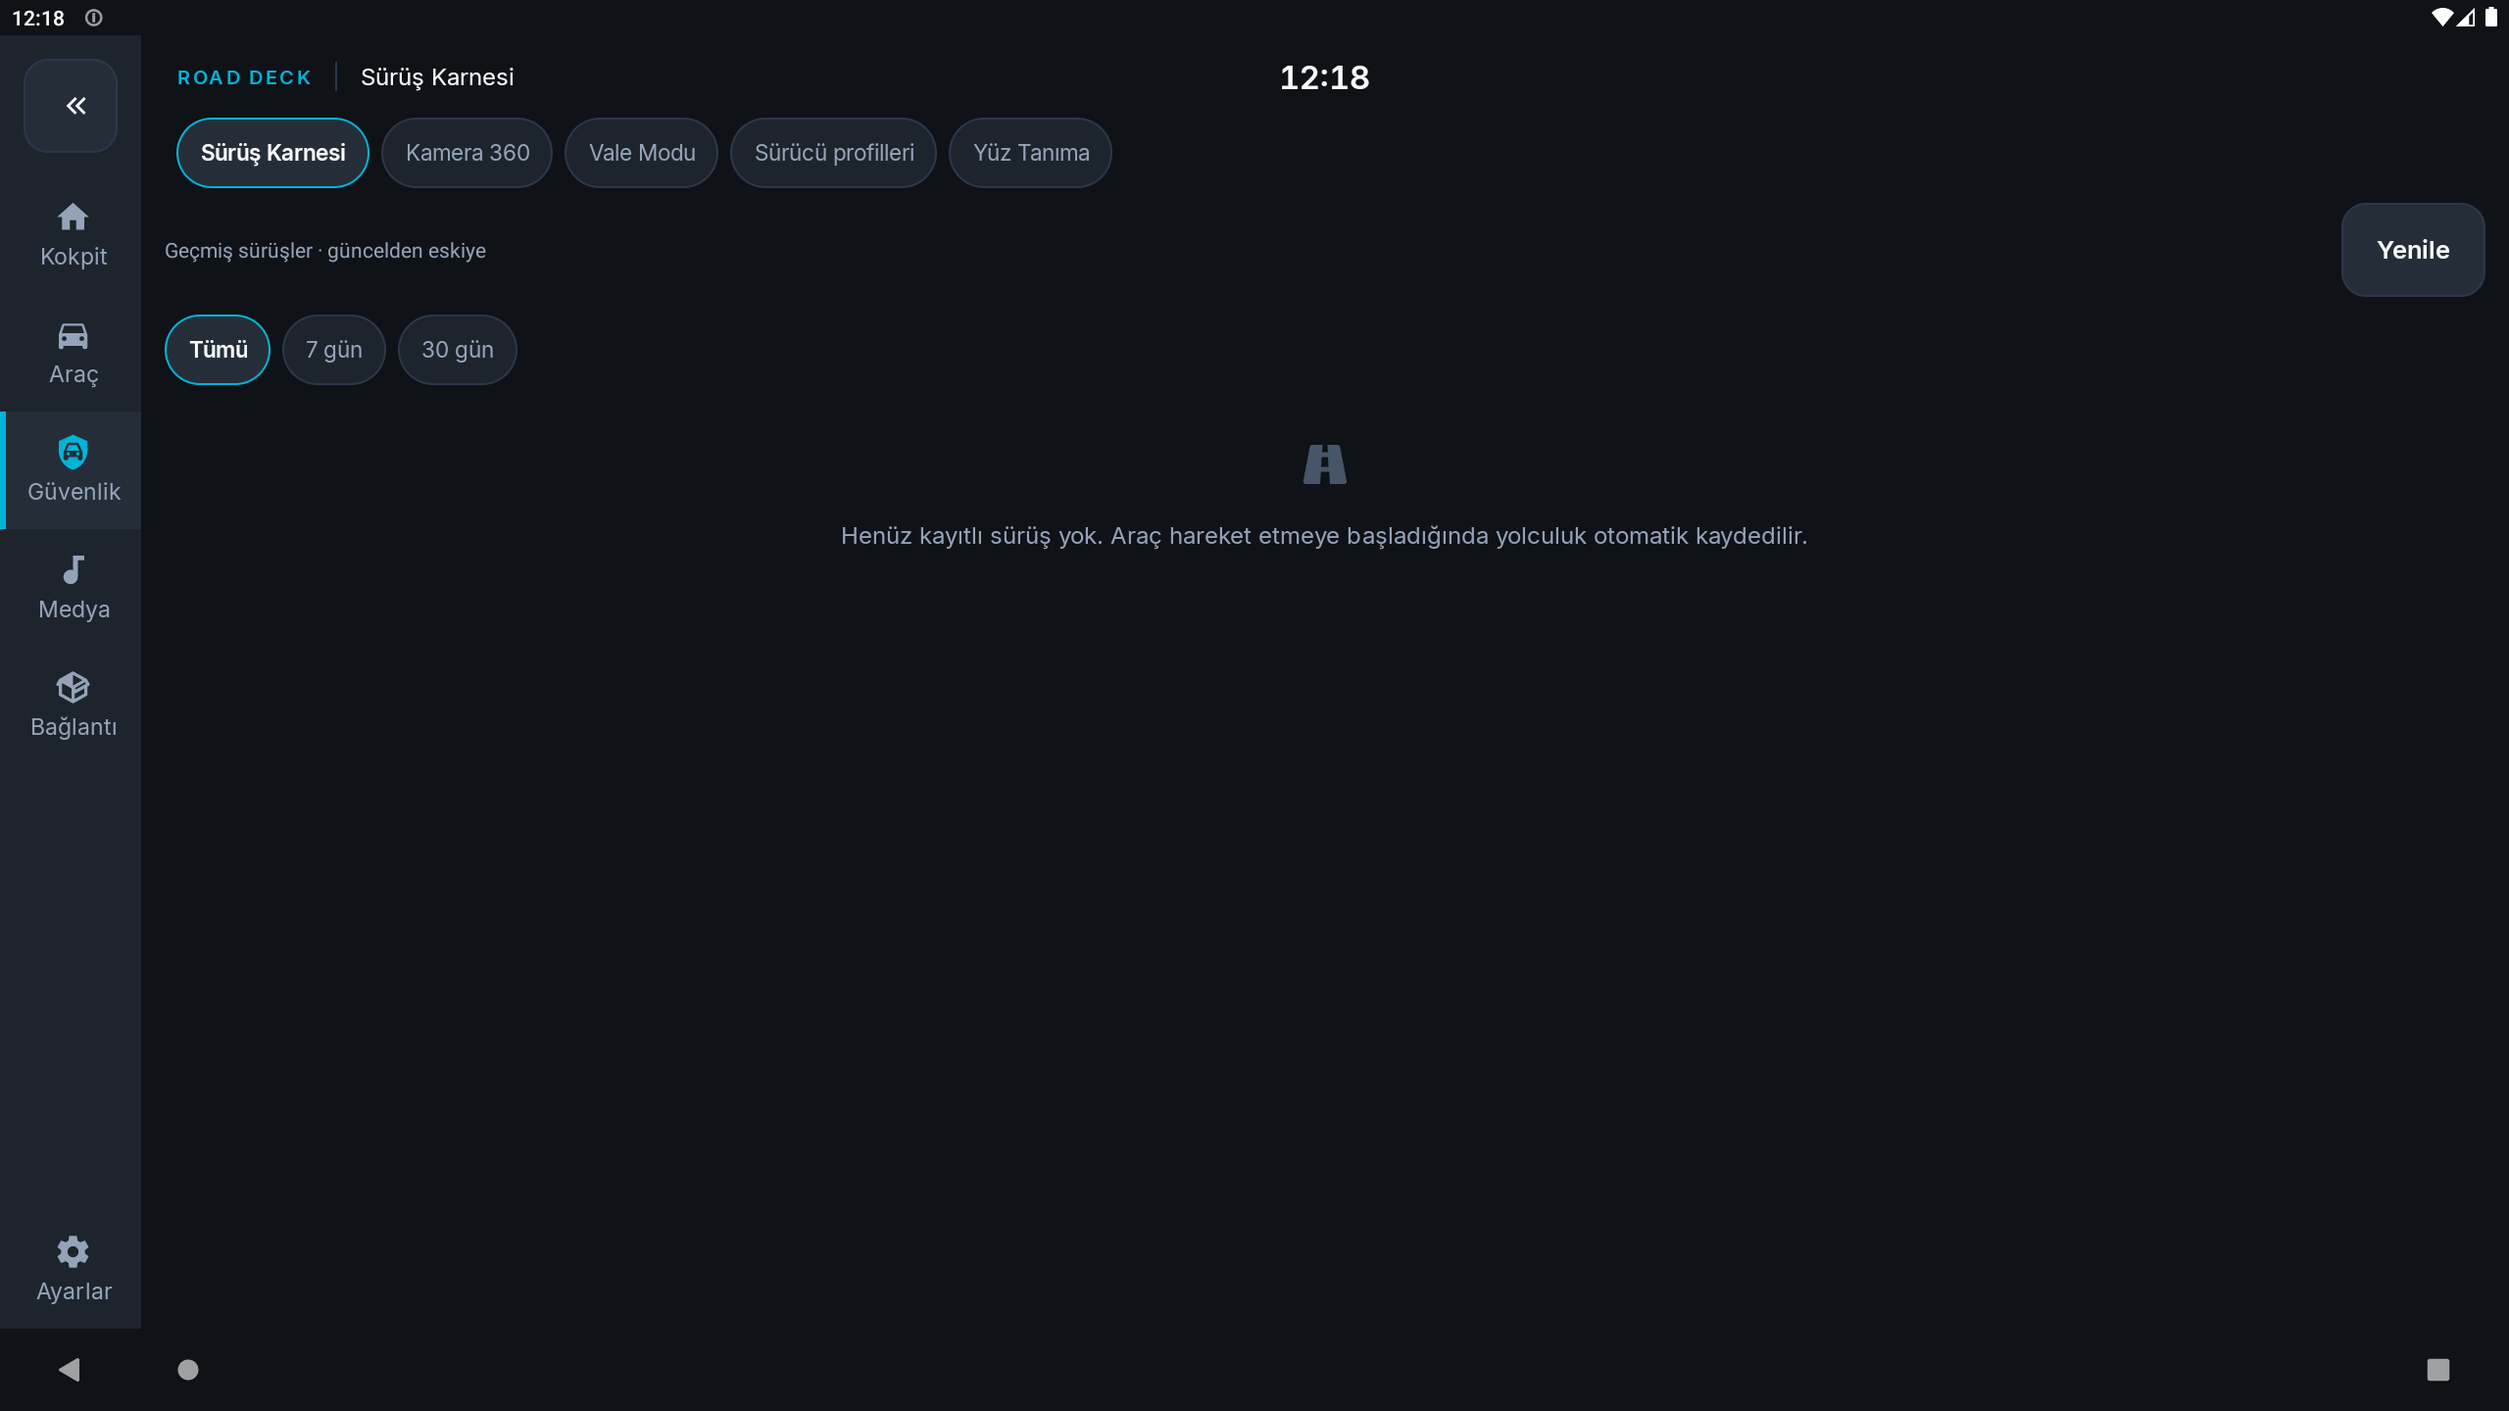
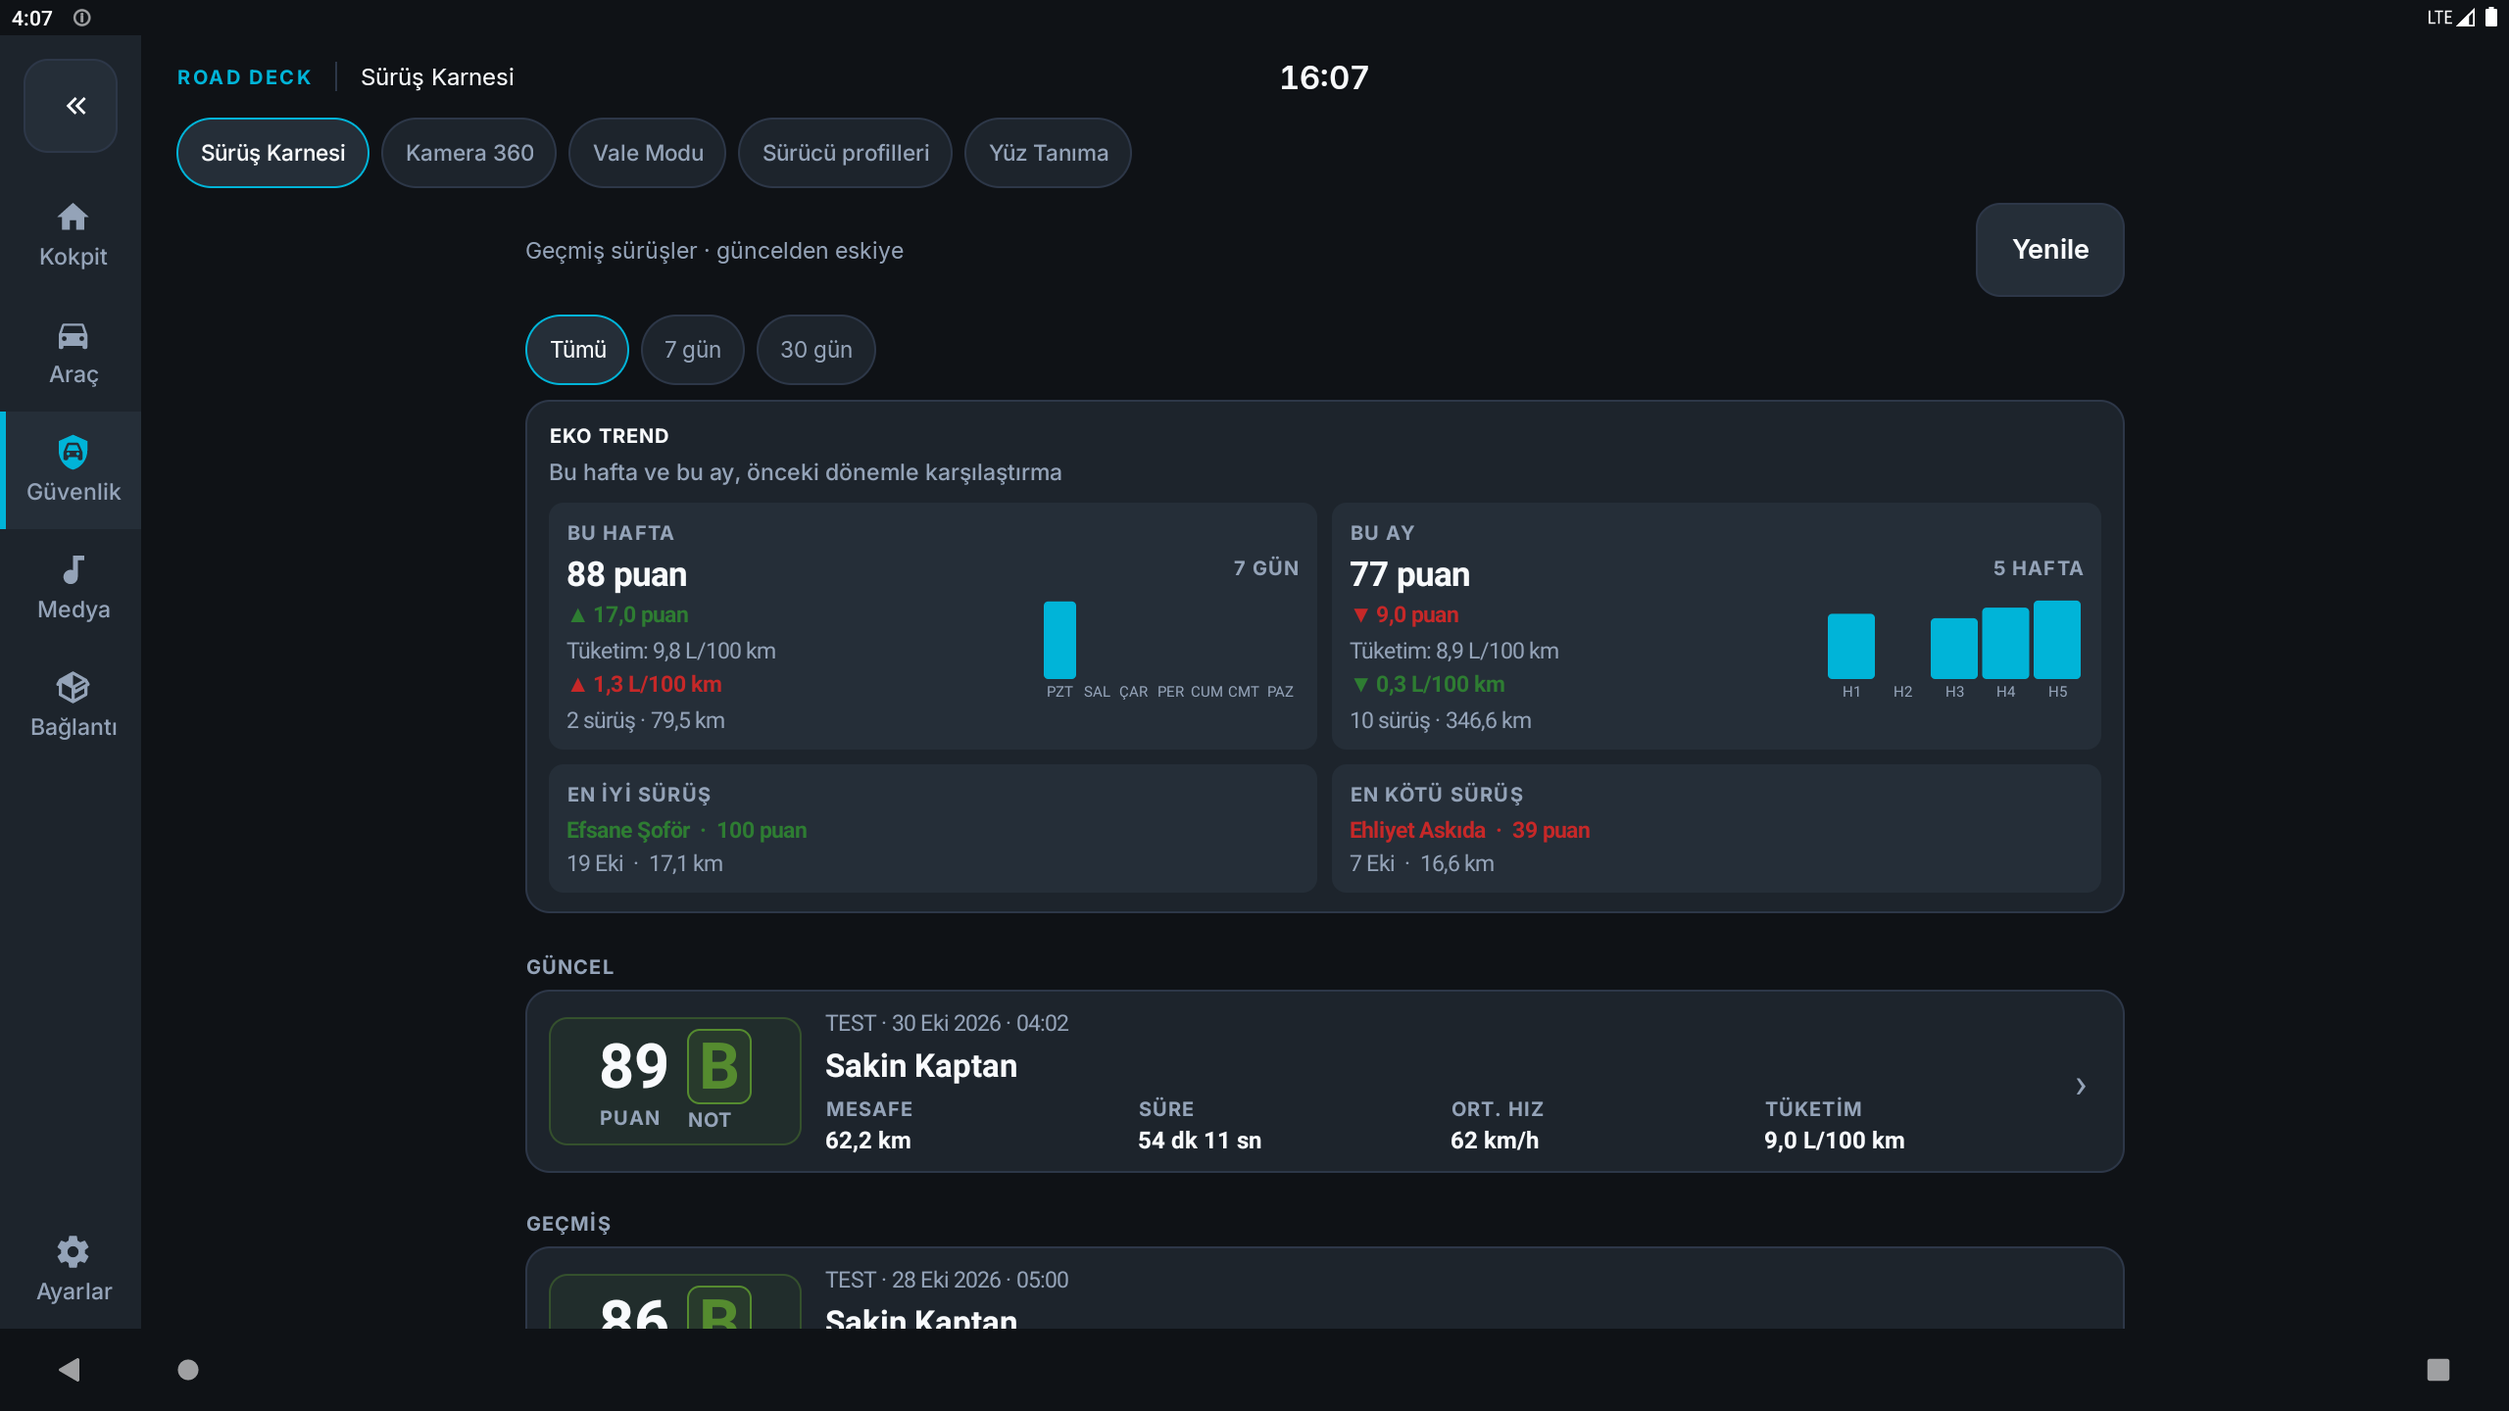
feat: Surus Karnesi tipografi ve kart kompozisyonu
- Trend/ekstrem metrikleri label-caps + bodySm rollerine tasindi
- Bos durum CockpitCard icine alindi
- Baslik/tarih/metrik hiyerarsisi DESIGN.md tipografiye hizalandi
- Ekran goruntusu guncellendi

diff --git a/app/src/main/java/com/mapcontrol/ui/builder/DrivingHistoryTabBuilder.java b/app/src/main/java/com/mapcontrol/ui/builder/DrivingHistoryTabBuilder.java
@@ -22,6 +22,7 @@ import com.mapcontrol.driving.DrivingTrendBarsView;
 import com.mapcontrol.driving.DrivingTrends;
 import com.mapcontrol.ui.activity.DrivingAnalysisActivity;
 import com.mapcontrol.ui.cockpit.CockpitButton;
+import com.mapcontrol.ui.cockpit.CockpitCard;
 import com.mapcontrol.ui.cockpit.CockpitChip;
 import com.mapcontrol.ui.cockpit.CockpitEmptyState;
 import com.mapcontrol.ui.cockpit.CockpitSurfaces;
@@ -129,11 +130,14 @@ public class DrivingHistoryTabBuilder {
             String message = filterDays > 0
                     ? "Seçilen dönemde kayıtlı sürüş yok."
                     : context.getString(R.string.driving_history_empty);
-            CockpitEmptyState empty = new CockpitEmptyState(context,
-                    R.drawable.ic_mdi_road_variant, message);
-            listContainer.addView(empty, new LinearLayout.LayoutParams(
+            CockpitCard emptyCard = new CockpitCard(context);
+            emptyCard.addContent(new CockpitEmptyState(context,
+                    R.drawable.ic_mdi_road_variant, message));
+            LinearLayout.LayoutParams emptyLp = new LinearLayout.LayoutParams(
                     LinearLayout.LayoutParams.MATCH_PARENT,
-                    LinearLayout.LayoutParams.WRAP_CONTENT));
+                    LinearLayout.LayoutParams.WRAP_CONTENT);
+            emptyLp.bottomMargin = dp(12);
+            listContainer.addView(emptyCard, emptyLp);
         }
     }
 
@@ -190,12 +194,15 @@ public class DrivingHistoryTabBuilder {
         cardLp.bottomMargin = dp(12);
         card.setLayoutParams(cardLp);
 
-        TextView title = text("EKO TREND", 13,
-                UiStyles.color(context, R.color.textPrimary), true);
-        title.setLetterSpacing(0.12f);
+        TextView title = new TextView(context);
+        title.setText("EKO TREND");
+        CockpitTokens.labelCaps(title);
+        title.setTextColor(CockpitTokens.color(context, R.color.ck_text_high));
         card.addView(title);
-        TextView subtitle = text("Bu hafta ve bu ay, önceki dönemle karşılaştırma", 12,
-                UiStyles.color(context, R.color.textHint), false);
+        TextView subtitle = new TextView(context);
+        subtitle.setText("Bu hafta ve bu ay, önceki dönemle karşılaştırma");
+        CockpitTokens.bodySm(subtitle);
+        subtitle.setTextColor(CockpitTokens.color(context, R.color.ck_text_medium));
         LinearLayout.LayoutParams subtitleLp = new LinearLayout.LayoutParams(
                 LinearLayout.LayoutParams.WRAP_CONTENT,
                 LinearLayout.LayoutParams.WRAP_CONTENT);
@@ -257,22 +264,23 @@ public class DrivingHistoryTabBuilder {
         background.setCornerRadius(dp(10));
         card.setBackground(background);
 
-        TextView eyebrow = text(label, 10,
-                UiStyles.color(context, R.color.textHint), true);
-        eyebrow.setLetterSpacing(0.12f);
+        TextView eyebrow = new TextView(context);
+        eyebrow.setText(label);
+        CockpitTokens.labelCaps(eyebrow);
+        eyebrow.setTextColor(CockpitTokens.color(context, R.color.ck_text_medium));
         card.addView(eyebrow);
 
         if (trip != null) {
             TextView value = text(trip.title + "  ·  " + trip.score + " puan",
-                    13, gradeColor(trip.grade), true);
+                    15, gradeColor(trip.grade), true);
             LinearLayout.LayoutParams valueLp = new LinearLayout.LayoutParams(
                     LinearLayout.LayoutParams.WRAP_CONTENT,
                     LinearLayout.LayoutParams.WRAP_CONTENT);
             valueLp.topMargin = dp(4);
             card.addView(value, valueLp);
 
-            TextView meta = text(bestMeta(trip), 11,
-                    UiStyles.color(context, R.color.textHint), false);
+            TextView meta = text(bestMeta(trip), 15,
+                    CockpitTokens.color(context, R.color.ck_text_medium), false);
             LinearLayout.LayoutParams metaLp = new LinearLayout.LayoutParams(
                     LinearLayout.LayoutParams.WRAP_CONTENT,
                     LinearLayout.LayoutParams.WRAP_CONTENT);
@@ -301,9 +309,10 @@ public class DrivingHistoryTabBuilder {
         LinearLayout textColumn = new LinearLayout(context);
         textColumn.setOrientation(LinearLayout.VERTICAL);
 
-        TextView periodLabel = text(label, 10,
-                UiStyles.color(context, R.color.textHint), true);
-        periodLabel.setLetterSpacing(0.12f);
+        TextView periodLabel = new TextView(context);
+        periodLabel.setText(label);
+        CockpitTokens.labelCaps(periodLabel);
+        periodLabel.setTextColor(CockpitTokens.color(context, R.color.ck_text_medium));
         textColumn.addView(periodLabel);
         TextView score = text(current.hasData() ? current.avgScore + " puan" : "—",
                 23, UiStyles.color(context, R.color.textPrimary), true);
@@ -317,8 +326,8 @@ public class DrivingHistoryTabBuilder {
 
         String consumptionText = current.hasConsumption
                 ? String.format(appLocale(), "%.1f L/100 km", current.avgConsumptionL100) : "—";
-        TextView consumption = text("Tüketim: " + consumptionText, 12,
-                UiStyles.color(context, R.color.textSecondary), false);
+        TextView consumption = text("Tüketim: " + consumptionText, 15,
+                CockpitTokens.color(context, R.color.ck_text_medium), false);
         LinearLayout.LayoutParams consumptionLp = new LinearLayout.LayoutParams(
                 LinearLayout.LayoutParams.WRAP_CONTENT,
                 LinearLayout.LayoutParams.WRAP_CONTENT);
@@ -331,7 +340,7 @@ public class DrivingHistoryTabBuilder {
 
         TextView meta = text(current.tripCount + " sürüş · "
                         + String.format(appLocale(), "%.1f km", current.distanceKm),
-                11, UiStyles.color(context, R.color.textHint), false);
+                15, CockpitTokens.color(context, R.color.ck_text_medium), false);
         LinearLayout.LayoutParams metaLp = new LinearLayout.LayoutParams(
                 LinearLayout.LayoutParams.WRAP_CONTENT,
                 LinearLayout.LayoutParams.WRAP_CONTENT);
@@ -343,9 +352,10 @@ public class DrivingHistoryTabBuilder {
         LinearLayout chartColumn = new LinearLayout(context);
         chartColumn.setOrientation(LinearLayout.VERTICAL);
         chartColumn.setGravity(Gravity.END);
-        TextView chartLabel = text(week ? "7 GÜN" : "5 HAFTA", 10,
-                UiStyles.color(context, R.color.textHint), true);
-        chartLabel.setLetterSpacing(0.12f);
+        TextView chartLabel = new TextView(context);
+        chartLabel.setText(week ? "7 GÜN" : "5 HAFTA");
+        CockpitTokens.labelCaps(chartLabel);
+        chartLabel.setTextColor(CockpitTokens.color(context, R.color.ck_text_medium));
         chartLabel.setGravity(Gravity.END);
         chartColumn.addView(chartLabel);
         DrivingTrendBarsView bars = new DrivingTrendBarsView(context);
@@ -379,8 +389,8 @@ public class DrivingHistoryTabBuilder {
     private TextView deltaView(double current, double previous, boolean hasComparison,
             boolean lowerIsBetter, String unit) {
         if (!hasComparison) {
-            TextView neutral = text("Önceki dönem verisi yok", 11,
-                    UiStyles.color(context, R.color.textHint), false);
+            TextView neutral = text("Önceki dönem verisi yok", 15,
+                    CockpitTokens.color(context, R.color.ck_text_medium), false);
             neutral.setPadding(0, dp(2), 0, 0);
             return neutral;
         }
@@ -391,7 +401,7 @@ public class DrivingHistoryTabBuilder {
                 : (better ? 0xFF2E7D32 : 0xFFC62828);
         String arrow = Math.abs(delta) < 0.05 ? "±" : (delta > 0 ? "▲" : "▼");
         TextView view = text(String.format(appLocale(), "%s %.1f %s", arrow,
-                Math.abs(delta), unit), 11, color, true);
+                Math.abs(delta), unit), 15, color, true);
         view.setPadding(0, dp(2), 0, 0);
         return view;
     }
@@ -420,8 +430,10 @@ public class DrivingHistoryTabBuilder {
         header.setOrientation(LinearLayout.HORIZONTAL);
         header.setGravity(Gravity.CENTER_VERTICAL);
 
-        TextView subtitle = text(R.string.driving_history_subtitle, 14,
-                UiStyles.color(context, R.color.textSecondary), false);
+        TextView subtitle = new TextView(context);
+        subtitle.setText(R.string.driving_history_subtitle);
+        CockpitTokens.bodySm(subtitle);
+        subtitle.setTextColor(CockpitTokens.color(context, R.color.ck_text_medium));
         subtitle.setPadding(0, 0, dp(12), 0);
         header.addView(subtitle, new LinearLayout.LayoutParams(
                 0, LinearLayout.LayoutParams.WRAP_CONTENT, 1f));
@@ -498,7 +510,7 @@ public class DrivingHistoryTabBuilder {
         if (trip.testData) {
             date = "TEST · " + date;
         }
-        return text(date, 13, UiStyles.color(context, R.color.textHint), false);
+        return text(date, 15, CockpitTokens.color(context, R.color.ck_text_medium), false);
     }
 
     private LinearLayout titleLine(DrivingTrip trip, boolean withArrow) {
@@ -507,7 +519,7 @@ public class DrivingHistoryTabBuilder {
         row.setGravity(Gravity.CENTER_VERTICAL);
         TextView title = text(trip.title != null && !trip.title.isEmpty()
                 ? trip.title : context.getString(R.string.side_rail_driving_report),
-                22, UiStyles.color(context, R.color.textPrimary), true);
+                22, CockpitTokens.color(context, R.color.ck_text_high), true);
         title.setPadding(0, dp(3), 0, 0);
         row.addView(title, new LinearLayout.LayoutParams(
                 0, LinearLayout.LayoutParams.WRAP_CONTENT, 1f));
@@ -544,12 +556,13 @@ public class DrivingHistoryTabBuilder {
                 int index = start + i;
                 LinearLayout cell = new LinearLayout(context);
                 cell.setOrientation(LinearLayout.VERTICAL);
-                TextView label = text(labels[index], 9,
-                        UiStyles.color(context, R.color.textHint), true);
-                label.setLetterSpacing(0.1f);
+                TextView label = new TextView(context);
+                label.setText(labels[index]);
+                CockpitTokens.labelCaps(label);
+                label.setTextColor(CockpitTokens.color(context, R.color.ck_text_medium));
                 cell.addView(label);
                 TextView value = text(values[index], 16,
-                        UiStyles.color(context, R.color.textPrimary), true);
+                        CockpitTokens.color(context, R.color.ck_text_high), true);
                 value.setMaxLines(1);
                 cell.addView(value);
                 LinearLayout.LayoutParams cellLp = new LinearLayout.LayoutParams(
@@ -589,9 +602,10 @@ public class DrivingHistoryTabBuilder {
                     wide ? 18 : 16, color, true);
             liveValue.setLetterSpacing(0.08f);
             group.addView(liveValue);
-            TextView liveLabel = text(R.string.driving_history_live_now,
-                    9, UiStyles.color(context, R.color.textHint), true);
-            liveLabel.setLetterSpacing(0.12f);
+            TextView liveLabel = new TextView(context);
+            liveLabel.setText(R.string.driving_history_live_now);
+            CockpitTokens.labelCaps(liveLabel);
+            liveLabel.setTextColor(CockpitTokens.color(context, R.color.ck_text_medium));
             group.addView(liveLabel);
             panel.addView(group);
             return panel;
@@ -604,9 +618,10 @@ public class DrivingHistoryTabBuilder {
                 UiStyles.color(context, R.color.textPrimary), true);
         pointsValue.setIncludeFontPadding(false);
         points.addView(pointsValue);
-        TextView pointsLabel = text(R.string.driving_history_points_label, 9,
-                UiStyles.color(context, R.color.textHint), true);
-        pointsLabel.setLetterSpacing(0.12f);
+        TextView pointsLabel = new TextView(context);
+        pointsLabel.setText(R.string.driving_history_points_label);
+        CockpitTokens.labelCaps(pointsLabel);
+        pointsLabel.setTextColor(CockpitTokens.color(context, R.color.ck_text_medium));
         points.addView(pointsLabel);
         panel.addView(points);
 
@@ -631,9 +646,10 @@ public class DrivingHistoryTabBuilder {
         gradeValue.setBackground(pill);
         grade.addView(gradeValue);
 
-        TextView gradeLabel = text(R.string.driving_history_grade_label, 9,
-                UiStyles.color(context, R.color.textHint), true);
-        gradeLabel.setLetterSpacing(0.12f);
+        TextView gradeLabel = new TextView(context);
+        gradeLabel.setText(R.string.driving_history_grade_label);
+        CockpitTokens.labelCaps(gradeLabel);
+        gradeLabel.setTextColor(CockpitTokens.color(context, R.color.ck_text_medium));
         grade.addView(gradeLabel);
         return panel;
     }
